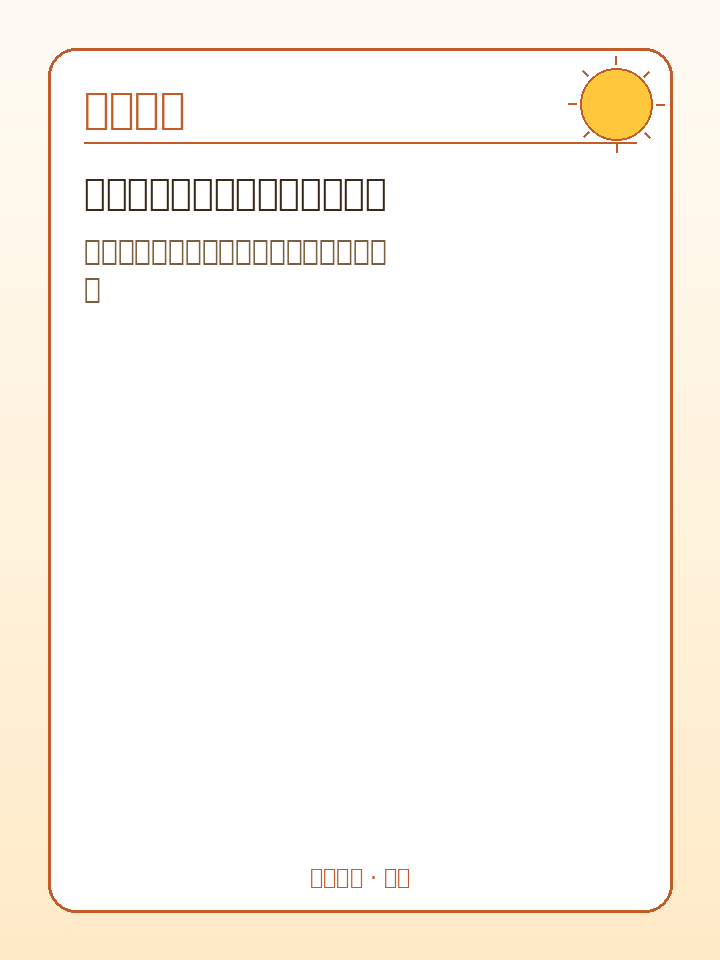
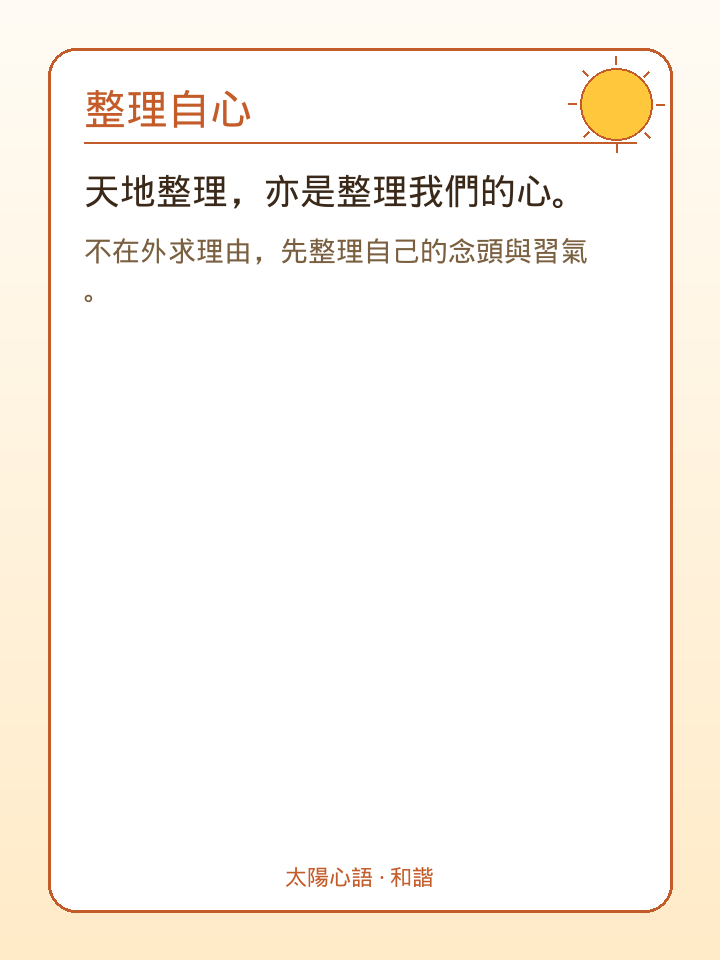
修正語錄卡片方塊字：改用 CJK 字型重新產生 PNG

Changed region(s): [[0.0917, 0.0938, 0.7944, 0.2188], [0.1222, 0.25, 0.825, 0.3125], [0.3972, 0.9062, 0.6111, 0.9375]]

diff --git a/docs/taiyang-xinyu/sw.js b/docs/taiyang-xinyu/sw.js
@@ -1,4 +1,4 @@
-const CACHE = "taiyang-xinyu-v7";
+const CACHE = "taiyang-xinyu-v8";
 const ASSETS = [
   "./",
   "./index.html",

diff --git a/scripts/build-taiyang-xinyu-catalog.py b/scripts/build-taiyang-xinyu-catalog.py
@@ -49,18 +49,29 @@ SKIP_IMAGE_HOST = (
 XINYU_MARK = re.compile(r"太陽心語|心語|箴言|導師")
 
 
+def _try_truetype(path: str, size: int) -> ImageFont.FreeTypeFont | None:
+    if not Path(path).exists():
+        return None
+    try:
+        return ImageFont.truetype(path, size, index=0)
+    except OSError:
+        try:
+            return ImageFont.truetype(path, size)
+        except OSError:
+            return None
+
+
 def load_font(size: int, bold: bool = False) -> ImageFont.FreeTypeFont | ImageFont.ImageFont:
     candidates = [
         "/usr/share/fonts/opentype/noto/NotoSansCJK-Bold.ttc" if bold else "/usr/share/fonts/opentype/noto/NotoSansCJK-Regular.ttc",
         "/usr/share/fonts/truetype/noto/NotoSansCJK-Bold.ttc" if bold else "/usr/share/fonts/truetype/noto/NotoSansCJK-Regular.ttc",
-        "/usr/share/fonts/truetype/dejavu/DejaVuSans-Bold.ttf" if bold else "/usr/share/fonts/truetype/dejavu/DejaVuSans.ttf",
+        "/usr/share/fonts/truetype/wqy/wqy-microhei.ttc",
+        "/usr/share/fonts/truetype/droid/DroidSansFallbackFull.ttf",
     ]
     for p in candidates:
-        if Path(p).exists():
-            try:
-                return ImageFont.truetype(p, size)
-            except OSError:
-                pass
+        f = _try_truetype(p, size)
+        if f:
+            return f
     return ImageFont.load_default()
 
 
